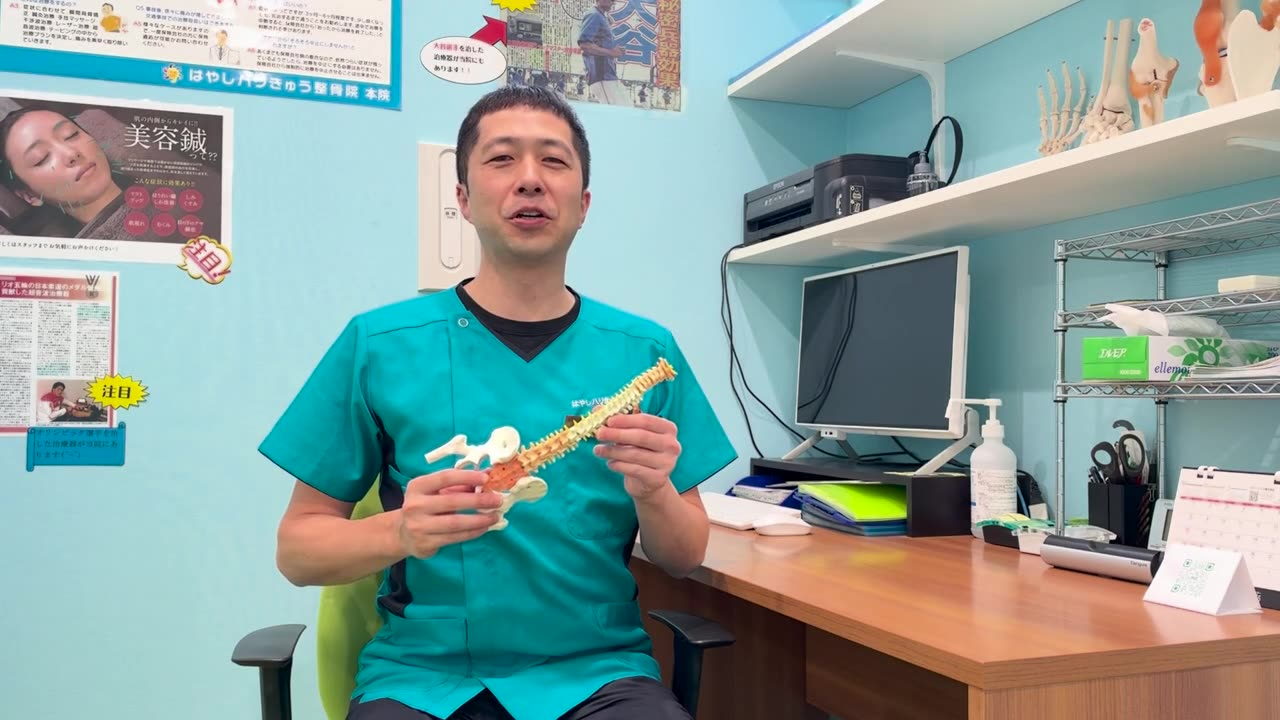
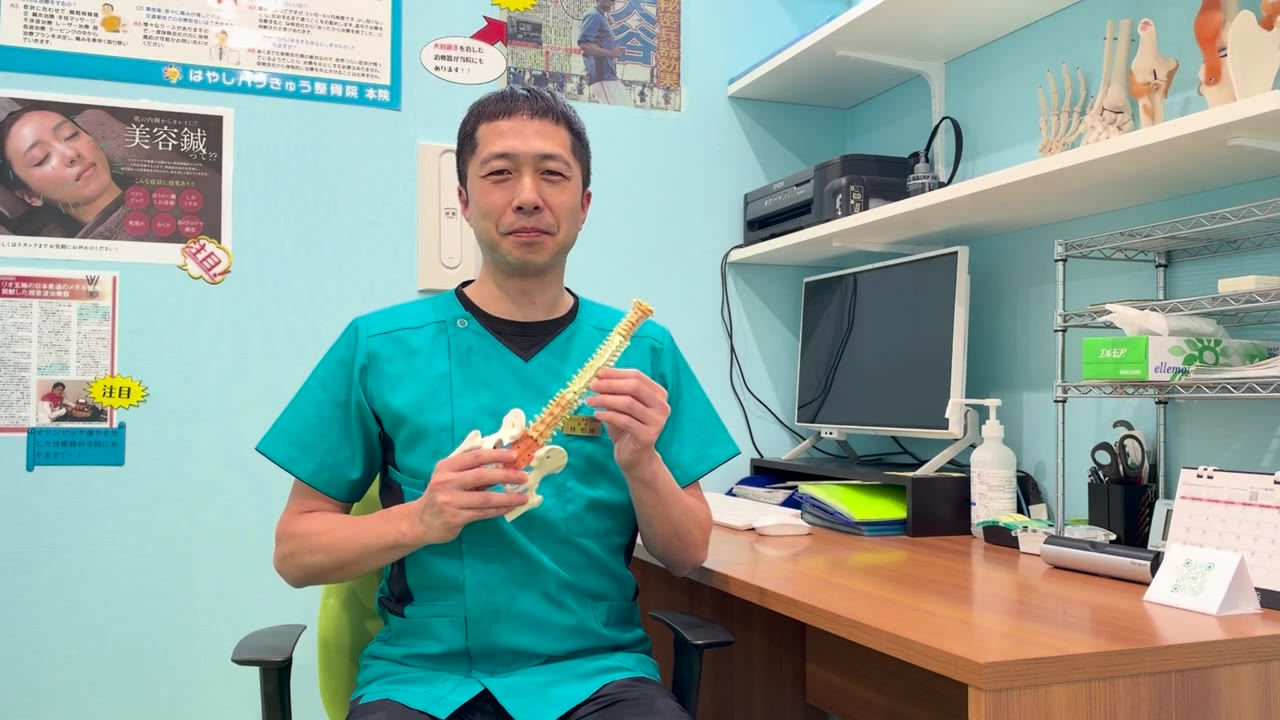
ごあいさつ動画：始まりの画面を笑顔のコマに
Claude-Session: https://claude.ai/code/session_01PM2mruK46r1eDWs7voThra

diff --git a/src/pages/Sp.html b/src/pages/Sp.html
@@ -134,7 +134,7 @@ a{color:#17594F}a:hover{color:#0E3D36}
 <h2 class="reveal" style="margin: 0; font-size: 22px; font-weight: 900">施術するスタッフ</h2>
 <div class="reveal" style="display: flex; gap: 14px; align-items: center; background: #FFFFFF; border-radius: 16px; padding: 14px"><img src="./img/hayashi.jpg" alt="会社代表・総括院長 林恒博の写真" style="width: 120px; height: 120px; object-fit: cover; border-radius: 12px; display: block; flex: 0 0 auto"><div style="display: flex; flex-direction: column; gap: 4px; min-width: 0"><span style="font-size: 12px; color: #17594F; font-weight: 700">会社代表・総括院長</span><b style="font-size: 18px">林 恒博</b><span style="font-size: 12px; color: #3A4B47; line-height: 1.5">柔道整復師・はり師・きゅう師</span></div></div>
 <p style="margin: 0; font-size: 15px; color: #1B2A27">身体から症状の理由を一緒に探して、5年・10年先に良い身体になれるように目指しましょう。</p>
-<figure class="reveal" style="margin: 0; display: flex; flex-direction: column; gap: 6px; "><video src="./img/greeting.mp4" poster="./img/greeting_poster.jpg" controls playsinline preload="none" aria-label="総括院長 林 恒博のごあいさつの動画（46秒・字幕つき）" style="width: 100%; aspect-ratio: 16 / 9; border-radius: 16px; background: #DCE5E2; display: block"></video><figcaption style="font-size: 13px; color: #4A5C58">総括院長からのごあいさつ（46秒・音が出ます・字幕つき）</figcaption></figure>
+<figure class="reveal" style="margin: 0; display: flex; flex-direction: column; gap: 6px; "><video src="./img/greeting.mp4" poster="./img/greeting_poster.jpg?v=2" controls playsinline preload="none" aria-label="総括院長 林 恒博のごあいさつの動画（46秒・字幕つき）" style="width: 100%; aspect-ratio: 16 / 9; border-radius: 16px; background: #DCE5E2; display: block"></video><figcaption style="font-size: 13px; color: #4A5C58">総括院長からのごあいさつ（46秒・音が出ます・字幕つき）</figcaption></figure>
 <a href="Staff.html" style="display: flex; align-items: center; justify-content: center; min-height: 48px; border-radius: 12px; border: 2px solid #17594F; color: #17594F; text-decoration: none; font-weight: 700; background: #FFFFFF">スタッフ紹介を見る</a>
 </section>
 

diff --git a/src/pages/Main.html b/src/pages/Main.html
@@ -348,7 +348,7 @@ a{color:#17594F}a:hover{color:#0E3D36}
 <a href="Staff.html" style="align-self: flex-start; display: inline-flex; align-items: center; min-height: 48px; padding: 0 22px; border-radius: 12px; border: 2px solid #17594F; color: #17594F; text-decoration: none; font-weight: 700; margin-top: 6px">スタッフ紹介を見る</a>
 </div>
 </div>
-<figure class="reveal" style="margin: 0; display: flex; flex-direction: column; gap: 6px; max-width: 760px"><video src="./img/greeting.mp4" poster="./img/greeting_poster.jpg" controls playsinline preload="none" aria-label="総括院長 林 恒博のごあいさつの動画（46秒・字幕つき）" style="width: 100%; aspect-ratio: 16 / 9; border-radius: 16px; background: #DCE5E2; display: block"></video><figcaption style="font-size: 13px; color: #4A5C58">総括院長からのごあいさつ（46秒・音が出ます・字幕つき）</figcaption></figure>
+<figure class="reveal" style="margin: 0; display: flex; flex-direction: column; gap: 6px; max-width: 760px"><video src="./img/greeting.mp4" poster="./img/greeting_poster.jpg?v=2" controls playsinline preload="none" aria-label="総括院長 林 恒博のごあいさつの動画（46秒・字幕つき）" style="width: 100%; aspect-ratio: 16 / 9; border-radius: 16px; background: #DCE5E2; display: block"></video><figcaption style="font-size: 13px; color: #4A5C58">総括院長からのごあいさつ（46秒・音が出ます・字幕つき）</figcaption></figure>
 </div>
 </section>
 
